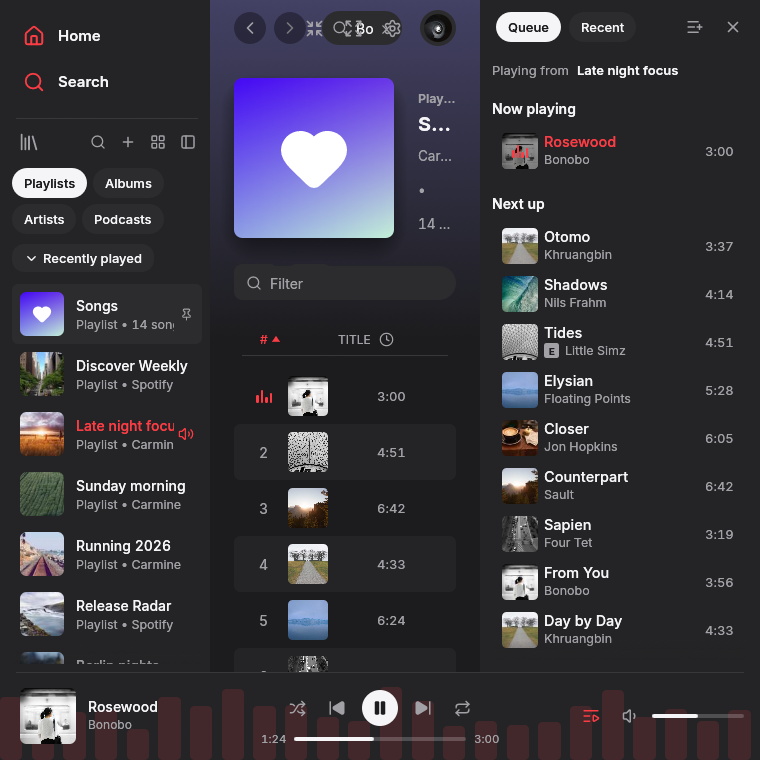
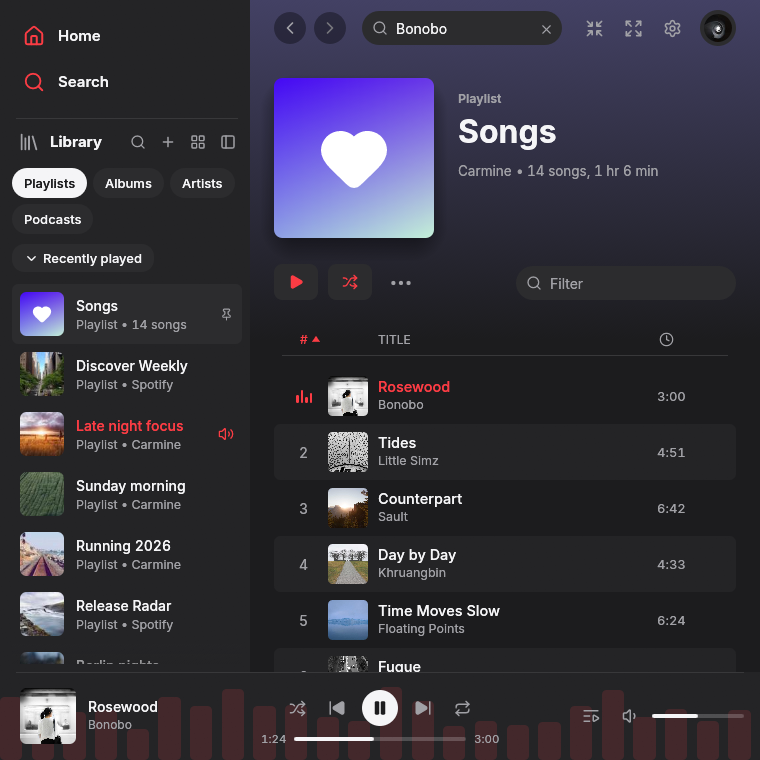
Capture the native narrow layout within its panel minimum

diff --git a/docs/applifast/review-polish/index.html b/docs/applifast/review-polish/index.html
@@ -16,6 +16,7 @@
   built with the demo feature. Every song and playlist is sample data.
   Source motion comes from <a href="https://github.com/jackkayser2005/applifast/pull/13">PR #13</a>.
   Ambient Pulse is enabled here to show the optional decorative animation.
+  The normal Songs capture has the queue open; the narrow capture has it closed.
   Apple Now Playing shows the cover and transport controls. Apple lyrics are unsupported.</p>
 <p>This is a candidate gallery, not a matching before-and-after approval comparison.
   A fresh build of baseline <code>72e6f74</code> is still needed for that comparison.
@@ -31,10 +32,14 @@
   <option value="now-playing-light-760x760.png">Now Playing, light, narrow</option>
   <option value="settings-dark-1100x760.png">Settings, dark, normal</option>
   <option value="mini-playing.png">Mini player with Ambient Pulse</option>
+  <option value="forced-queue-dark-760x760.png">Forced below panel minimum, dark</option>
+  <option value="forced-queue-light-760x760.png">Forced below panel minimum, light</option>
 </select></label>
 <img id="interaction" alt="Selected Now Playing or settings capture">
-<p>The narrow Songs view with both sidebar and queue open still has clipped center
-  content and toolbar controls. This remains a layout issue to resolve before release.
+<p>The forced 760-point Songs captures bypass the native minimum width while both
+  side panels are open. They show clipped center content and toolbar controls at
+  that forced size. Ordinary native resizing raises its minimum with these panels;
+  window-manager and real resize coverage remain pending.
   Stills do not establish animation timing, real playback, restart restoration,
   window lifecycle, performance or a one-hour gaming session.
   <a href="../listening-slice.md">Supported features and test results</a>.</p>

diff --git a/docs/applifast/listening-slice.md b/docs/applifast/listening-slice.md
@@ -120,7 +120,9 @@ verification. Default Rustdoc with warnings denied and default doctests also pas
 The older results below describe the preceding integration build.
 The [candidate gallery](review-polish/index.html) covers light/dark and narrow/normal
 Windows views. It is not a matching motion comparison: a baseline build is pending.
-It reveals clipped center content with the sidebar and queue open at 760 points.
+Additional 760-point queue captures deliberately bypass the native panel minimum
+and show clipping at that forced size. Ordinary window resizing raises its minimum
+while the panels are open; real resize and window-manager coverage are pending.
 Matching motion comparisons and real app restart acceptance remain separate checks.
 The real-account restoration check was deferred while
 the older app was playing, to avoid interrupting it.
